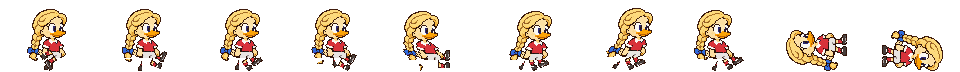
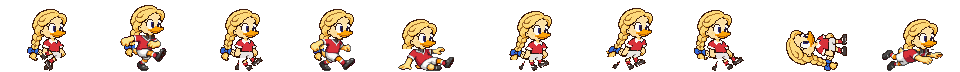
football art: amna and aya (Gemini refused them) get the new poses by putting their own original heads on a finished body (tools/pixel/headswap.py); red kit learns the body template's colours

diff --git a/tools/pixel/headswap.py b/tools/pixel/headswap.py
@@ -1,0 +1,105 @@
+"""Characters Gemini won't draw: take a finished character's new poses (same kit, same body) and put this character's
+own head (and hair hanging behind, e.g. a braid) from their original idle frame on top. Pure pixel work on the
+user's own art. Usage: python headswap.py <template char> <char> <collar row in char idle> [braid: x_max y_max]"""
+import sys
+import numpy as np
+from PIL import Image
+
+T, C = sys.argv[1], sys.argv[2]
+collar_c = int(sys.argv[3])
+braid = (int(sys.argv[4]), int(sys.argv[5])) if len(sys.argv) > 5 else None
+A = "../../bsc-boardgame/public/assets/football"
+
+idle = np.array(Image.open(f"{A}/{C}-blue.png").convert("RGBA"))[:, :64]
+op = idle[..., 3] > 0
+H, W = op.shape
+yy, xx = np.mgrid[:H, :W]
+head_m = op & (yy < collar_c)
+braid_m = op & (yy >= collar_c) & (xx <= braid[0]) & (yy <= braid[1]) if braid else np.zeros_like(op)
+hx = np.where(head_m.any(0))[0]
+head_cx = (hx.min() + hx.max()) / 2
+print("head cols", hx.min(), hx.max(), "centre", head_cx)
+
+
+def shirt_top(a):
+    """topmost row with shirt blue (b well above r and g)"""
+    r, g, b = a[..., 0].astype(int), a[..., 1].astype(int), a[..., 2].astype(int)
+    m = (a[..., 3] > 0) & (b > r + 60) & (b > g + 30) & (r < 100) & (b > 150)
+    rows = np.where(m.sum(1) >= 2)[0]
+    return rows.min()
+
+
+# which template frames keep the braid (upright ones), and the template's head columns where arms are near the head
+UPRIGHT = {0: True, 1: True, 2: False, 3: True, 4: False, 5: True}
+for k in range(6):
+    t = np.array(Image.open(f"cut/{T}_{k}.png").convert("RGBA"))
+    th, tw = t.shape[:2]
+    cy = shirt_top(t)
+    # the template's head: everything above its collar in the columns of the biggest blob there
+    above = (t[..., 3] > 0) & (np.mgrid[:th, :tw][0] < cy)
+    cols = above.sum(0)
+    # the head is the widest run of columns with pixels above the collar (raised arms are separate runs)
+    runs, s = [], None
+    for x in range(tw + 1):
+        on = x < tw and cols[x] > 0
+        if on and s is None:
+            s = x
+        if not on and s is not None:
+            runs.append((s, x))
+            s = None
+    run = max(runs, key=lambda r: sum(cols[r[0]:r[1]]))
+    x0, x1 = run
+    tcx = (x0 + x1 - 1) / 2
+    # raised arms joined to the head (celebration): only the head's own width round the middle is the head
+    if x1 - x0 > 36:
+        x0, x1 = int(round(tcx - 15)), int(round(tcx + 16))
+    out = t.copy()
+    out[:cy, x0:x1] = 0
+    # the old beak hanging over the collar: paint it over with the shirt below it
+    for x in range(x0, x1):
+        for y in range(cy, min(th, cy + 6)):
+            px = out[y, x]
+            if px[3] and px[0] > 190 and 90 < px[1] < 180 and px[2] < 90:
+                yb = y
+                while yb < th and out[yb, x, 3] and out[yb, x, 0] > 190 and 90 < out[yb, x, 1] < 180 and out[yb, x, 2] < 90:
+                    yb += 1
+                out[y, x] = out[yb, x] if yb < th else 0
+    # canvas big enough for the new head
+    pad_top = max(0, collar_c - cy)
+    pad_l = max(0, int(-(tcx - head_cx)) + 2)
+    pad_r = max(0, W - tw + 4)
+    can = np.zeros((th + pad_top, tw + pad_l + pad_r, 4), np.uint8)
+    can[pad_top:, pad_l:pad_l + tw] = out
+    dx = int(round(tcx + pad_l - head_cx))
+    dy = cy + pad_top - collar_c
+    # braid first, only where the body is not (it hangs behind)
+    if braid and UPRIGHT[k]:
+        ys, xs = np.where(braid_m)
+        for y, x in zip(ys, xs):
+            Y, X = y + dy, x + dx
+            if 0 <= Y < can.shape[0] and 0 <= X < can.shape[1] and can[Y, X, 3] == 0:
+                can[Y, X] = idle[y, x]
+    ys, xs = np.where(head_m)
+    for y, x in zip(ys, xs):
+        Y, X = y + dy, x + dx
+        if 0 <= Y < can.shape[0] and 0 <= X < can.shape[1]:
+            can[Y, X] = idle[y, x]
+    # raised arms (outside the head's columns, above the collar) stay in front of the new head
+    for y in range(cy):
+        for x in list(range(0, x0)) + list(range(x1, tw)):
+            if t[y, x, 3]:
+                can[y + pad_top, x + pad_l] = t[y, x]
+    bb = np.where(can[..., 3] > 0)
+    can = can[bb[0].min(): bb[0].max() + 1, bb[1].min(): bb[1].max() + 1]
+    Image.fromarray(can).save(f"cut/{C}_{k}.png")
+    print(k, "collar", cy, "head cols", x0, x1, "->", can.shape[1], can.shape[0])
+# preview
+fr = [Image.open(f"cut/{C}_{k}.png") for k in range(6)]
+pw = sum(f.width + 8 for f in fr)
+ph = max(f.height for f in fr)
+pv = Image.new("RGBA", (pw, ph), (40, 120, 40, 255))
+x = 0
+for f in fr:
+    pv.paste(f, (x, ph - f.height), f)
+    x += f.width + 8
+pv.resize((pv.width * 4, pv.height * 4), Image.NEAREST).save(f"cut/{C}_preview.png")

diff --git a/tools/pixel/gemini_place.py b/tools/pixel/gemini_place.py
@@ -15,12 +15,16 @@ def bbox(a):
     return xs.min(), xs.max(), ys.min(), ys.max()
 
 
-# blue -> red colour map from the base strips (same art, other kit)
-bb = np.array(Image.open(f"{A}/{char}-blue.png").convert("RGBA"))
-rb = np.array(Image.open(f"{A}/{char}-red.png").convert("RGBA"))
+# blue -> red colour map from the base strips (same art, other kit); a head-swap also learns the body template's map
+srcs = [char] + sys.argv[4:5]
+pairs = []
+for sc in srcs:
+    bb = np.array(Image.open(f"{A}/{sc}-blue.png").convert("RGBA"))
+    rb = np.array(Image.open(f"{A}/{sc}-red.png").convert("RGBA"))
+    pairs += list(zip(bb.reshape(-1, 4), rb.reshape(-1, 4)))
 cmap = {}
 votes = {}
-for c1, c2 in zip(bb.reshape(-1, 4), rb.reshape(-1, 4)):
+for c1, c2 in pairs:
     if c1[3] == 0:
         continue
     k = tuple(c1[:3])
@@ -28,6 +32,8 @@ for c1, c2 in zip(bb.reshape(-1, 4), rb.reshape(-1, 4)):
     votes[k][tuple(c2[:3])] += 1
 for k, v in votes.items():
     cmap[k] = max(v, key=v.get)
+keys = [tuple(int(v) for v in k) for k in cmap]
+cmap = {tuple(int(v) for v in k): tuple(int(v) for v in w) for k, w in cmap.items()}
 print("colour map", len(cmap), "changed", sum(1 for k, v in cmap.items() if k != v))
 
 for team in ("blue", "red"):
@@ -39,7 +45,16 @@ for team in ("blue", "red"):
             for y in range(f.shape[0]):
                 for x in range(f.shape[1]):
                     if f[y, x, 3]:
-                        f[y, x, :3] = cmap.get(tuple(f[y, x, :3]), tuple(f[y, x, :3]))
+                        c0 = tuple(int(v) for v in f[y, x, :3])
+                        if c0 not in cmap:
+                            # a colour from another character's body (a head-swap): the nearest known kit colour
+                            near = min(keys, key=lambda k: sum((a - b) ** 2 for a, b in zip(k, c0)))
+                            if sum((a - b) ** 2 for a, b in zip(near, c0)) < 60 ** 2 and cmap[near] != near:
+                                cmap[c0] = tuple(int(v) - int(n0) + int(m0) for v, n0, m0 in zip(c0, near, cmap[near]))
+                                cmap[c0] = tuple(max(0, min(255, v)) for v in cmap[c0])
+                            else:
+                                cmap[c0] = c0
+                        f[y, x, :3] = cmap[c0]
         fx0, fx1, fy0, fy1 = bbox(f)
         f = f[fy0 : fy1 + 1, fx0 : fx1 + 1]
         for s, idx, fw in targets:
